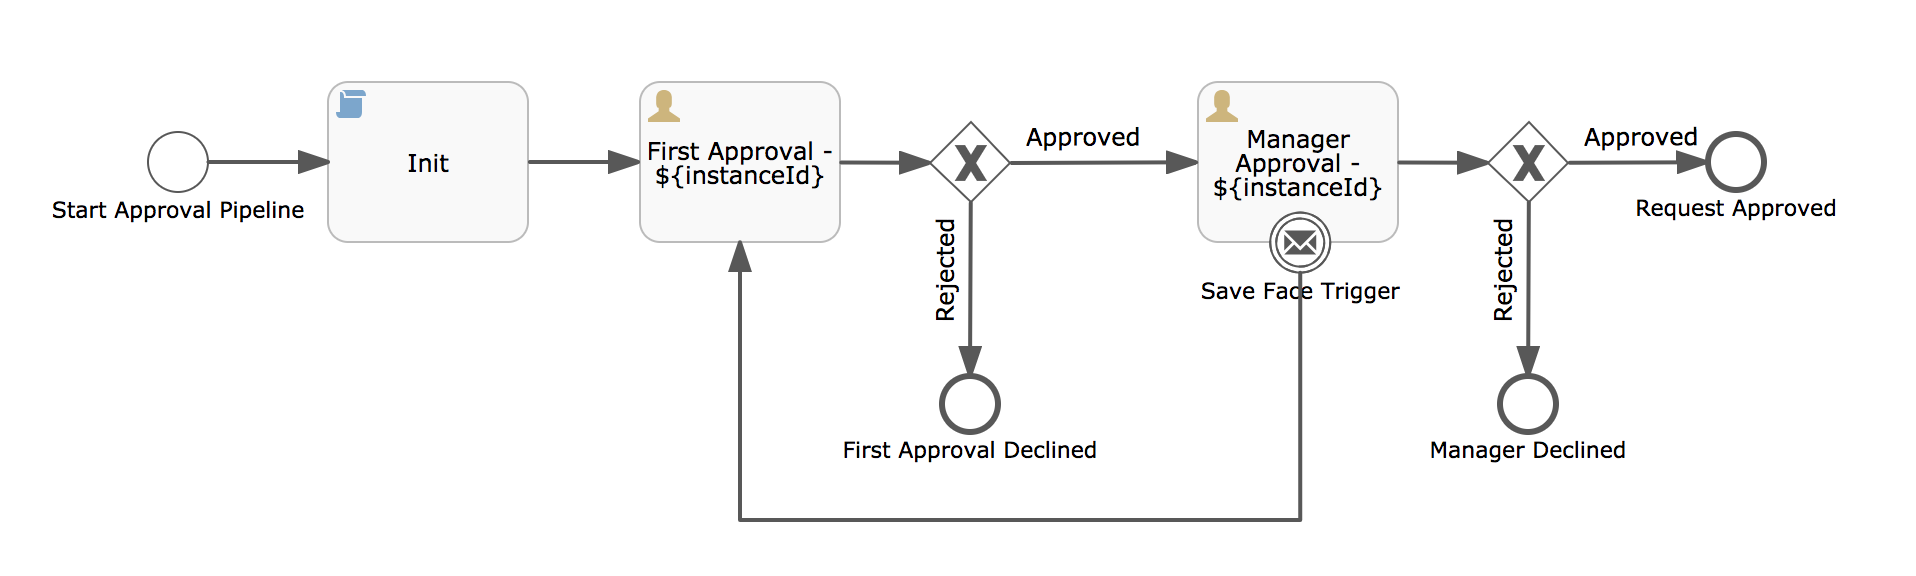
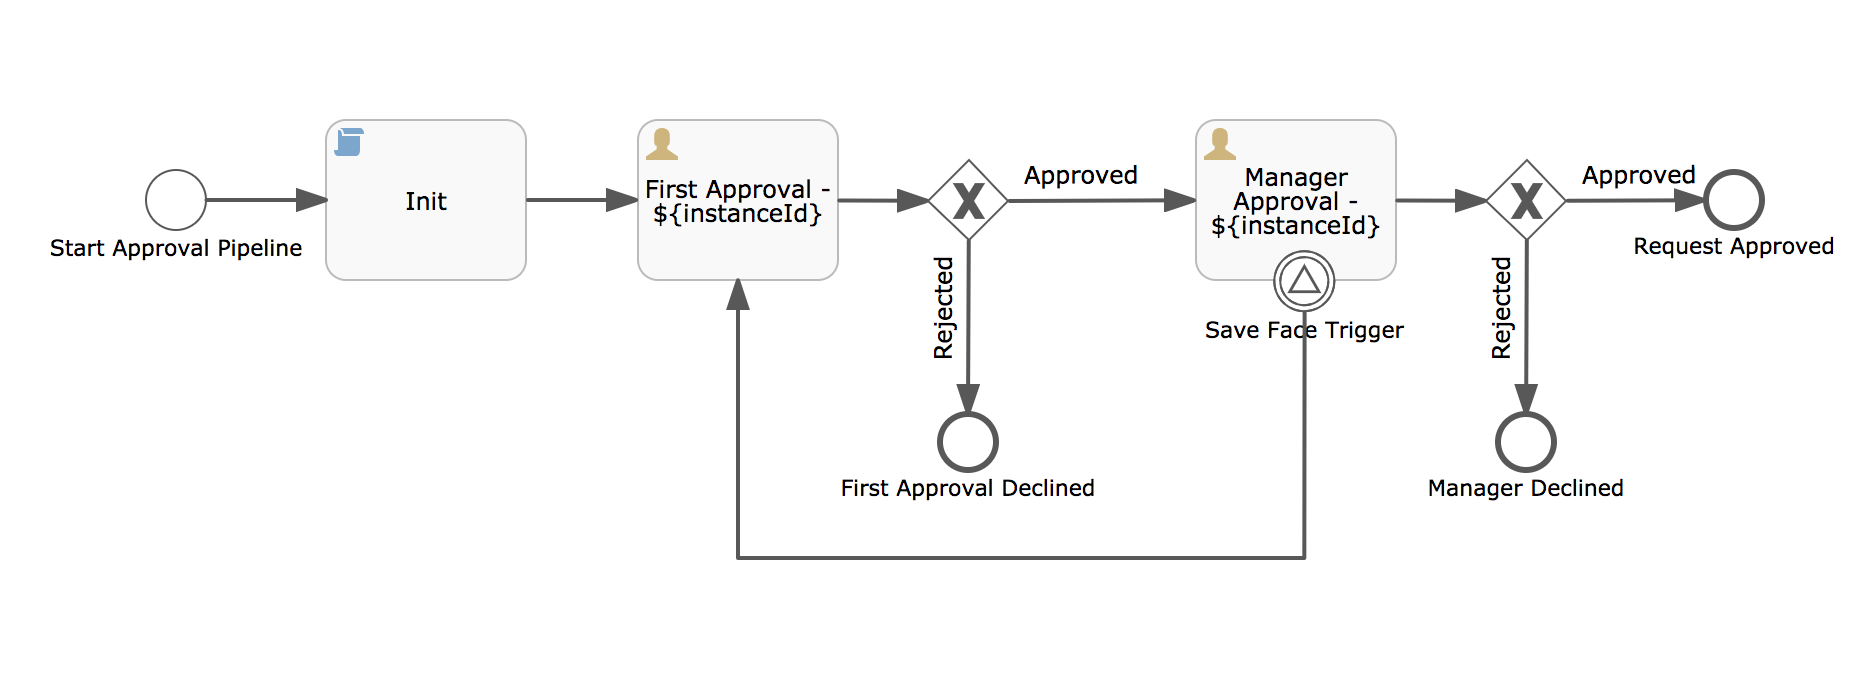
Next push

diff --git a/activiti-trigger-signal-boundary-event/readme.md b/activiti-trigger-signal-boundary-event/readme.md
@@ -1,4 +1,4 @@
-#### The project contains all the components required to trigger a boundary message event using REST calls
+#### The project contains all the components required to trigger a boundary signal event using REST calls
 
 
 ### Prerequisites to run this demo end-2-end
@@ -13,13 +13,13 @@
 2. Import the ![Save-Face.zip](Save-Face.zip) app available in this project into Activiti.
 3. The process flow.  ![Process-Flow](Process-Flow.png)
 4. The process configuration. ![Process-Configuration](Process-Configuration.png)
-5. The boundary message event. ![Message-Boundary-Event](Message-Boundary-Event.png)
-6. The message event defenition. ![Message-Defenition](Message-Defenition.png)
+5. The boundary signal event. ![Signal-Boundary-Event](Signal-Boundary-Event.png)
+6. The signal event definition. ![Signal-Definition](Signal-Definition.png)
 7. Publish/Deploy the App.
 
 ### POSTMAN
-1. Use POSTMAN to make REST calls and trigger the Boundary Message Events.
-2. As the first step, REST GET call should be to get the Execution ID of the targeted Boundary Message Event.
+1. Use POSTMAN to make REST calls and trigger the Boundary Signal Events.
+2. As the first step, REST GET call should be to get the Execution ID of the targeted Boundary Signal Event.
 ```
 http://<hostname>:<port>/activiti-app/api/runtime/executions?tenantId=<tenantId>&processInstanceId=<instanceID>
 ```
@@ -27,9 +27,9 @@ The configuration is shown below. ![REST-BME-ExeId](REST-BME-ExeId.png)
 If necessary, the value of Execution ID can be cross-verified by querying the DB.
 ![DB-table-value](DB-table-value.png)
 
-3. As the second step, REST PUT call should send trigger for Boundary Message Event.
+3. As the second step, REST PUT call should send trigger for Boundary Signal Event.
 ```
-http://<hostname>:<port>/activiti-app/api/runtime/executions/<execution-id-of-boundar-message-event>?tenantId=<tenantId>
+http://<hostname>:<port>/activiti-app/api/runtime/executions/<execution-id-of-boundary-signal-event>?tenantId=<tenantId>
 ```
 The header of PUT call is as follows:
 ```
@@ -40,8 +40,8 @@ content-type = application/json
 The body of the PUT call is as follows: 
 ```
 {
-"action":"messageEventReceived",
-"messageName":"saveFaceMessage"
+"action":"signalEventReceived",
+"signalName":"saveFaceSignal"
 }
 ```
 The configuration is shown below. ![REST-Trigger-BME](REST-Trigger-BME.png)
